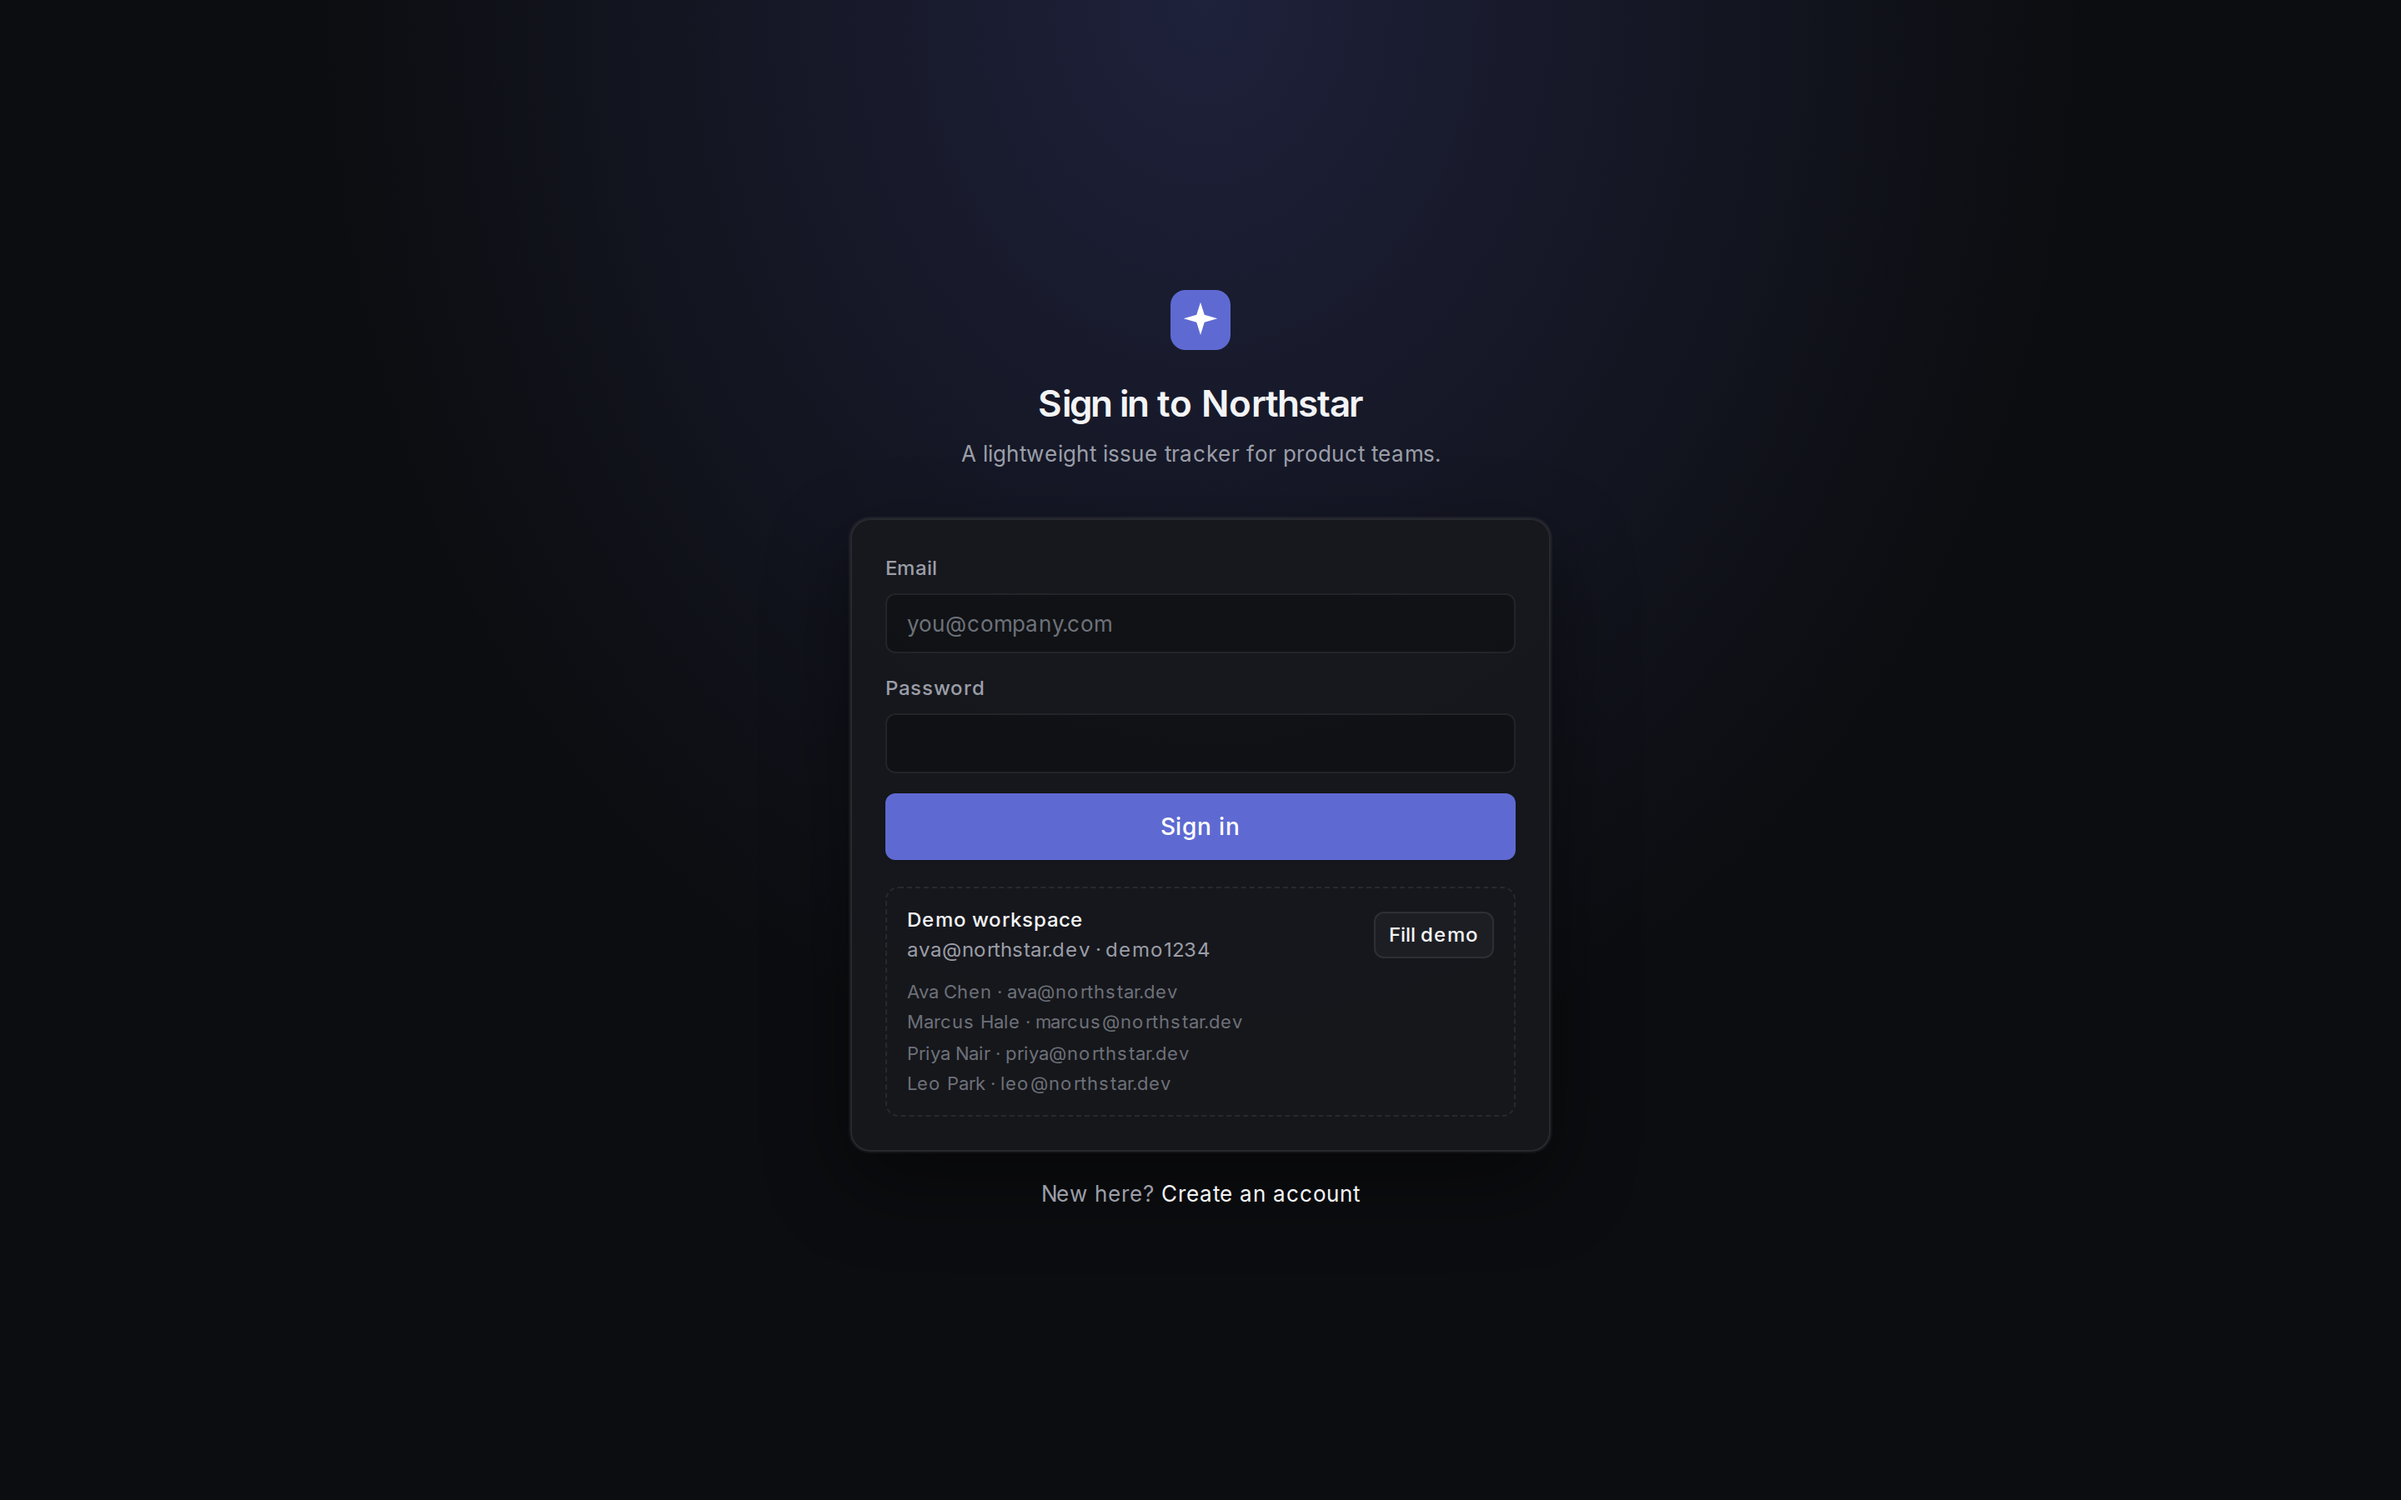
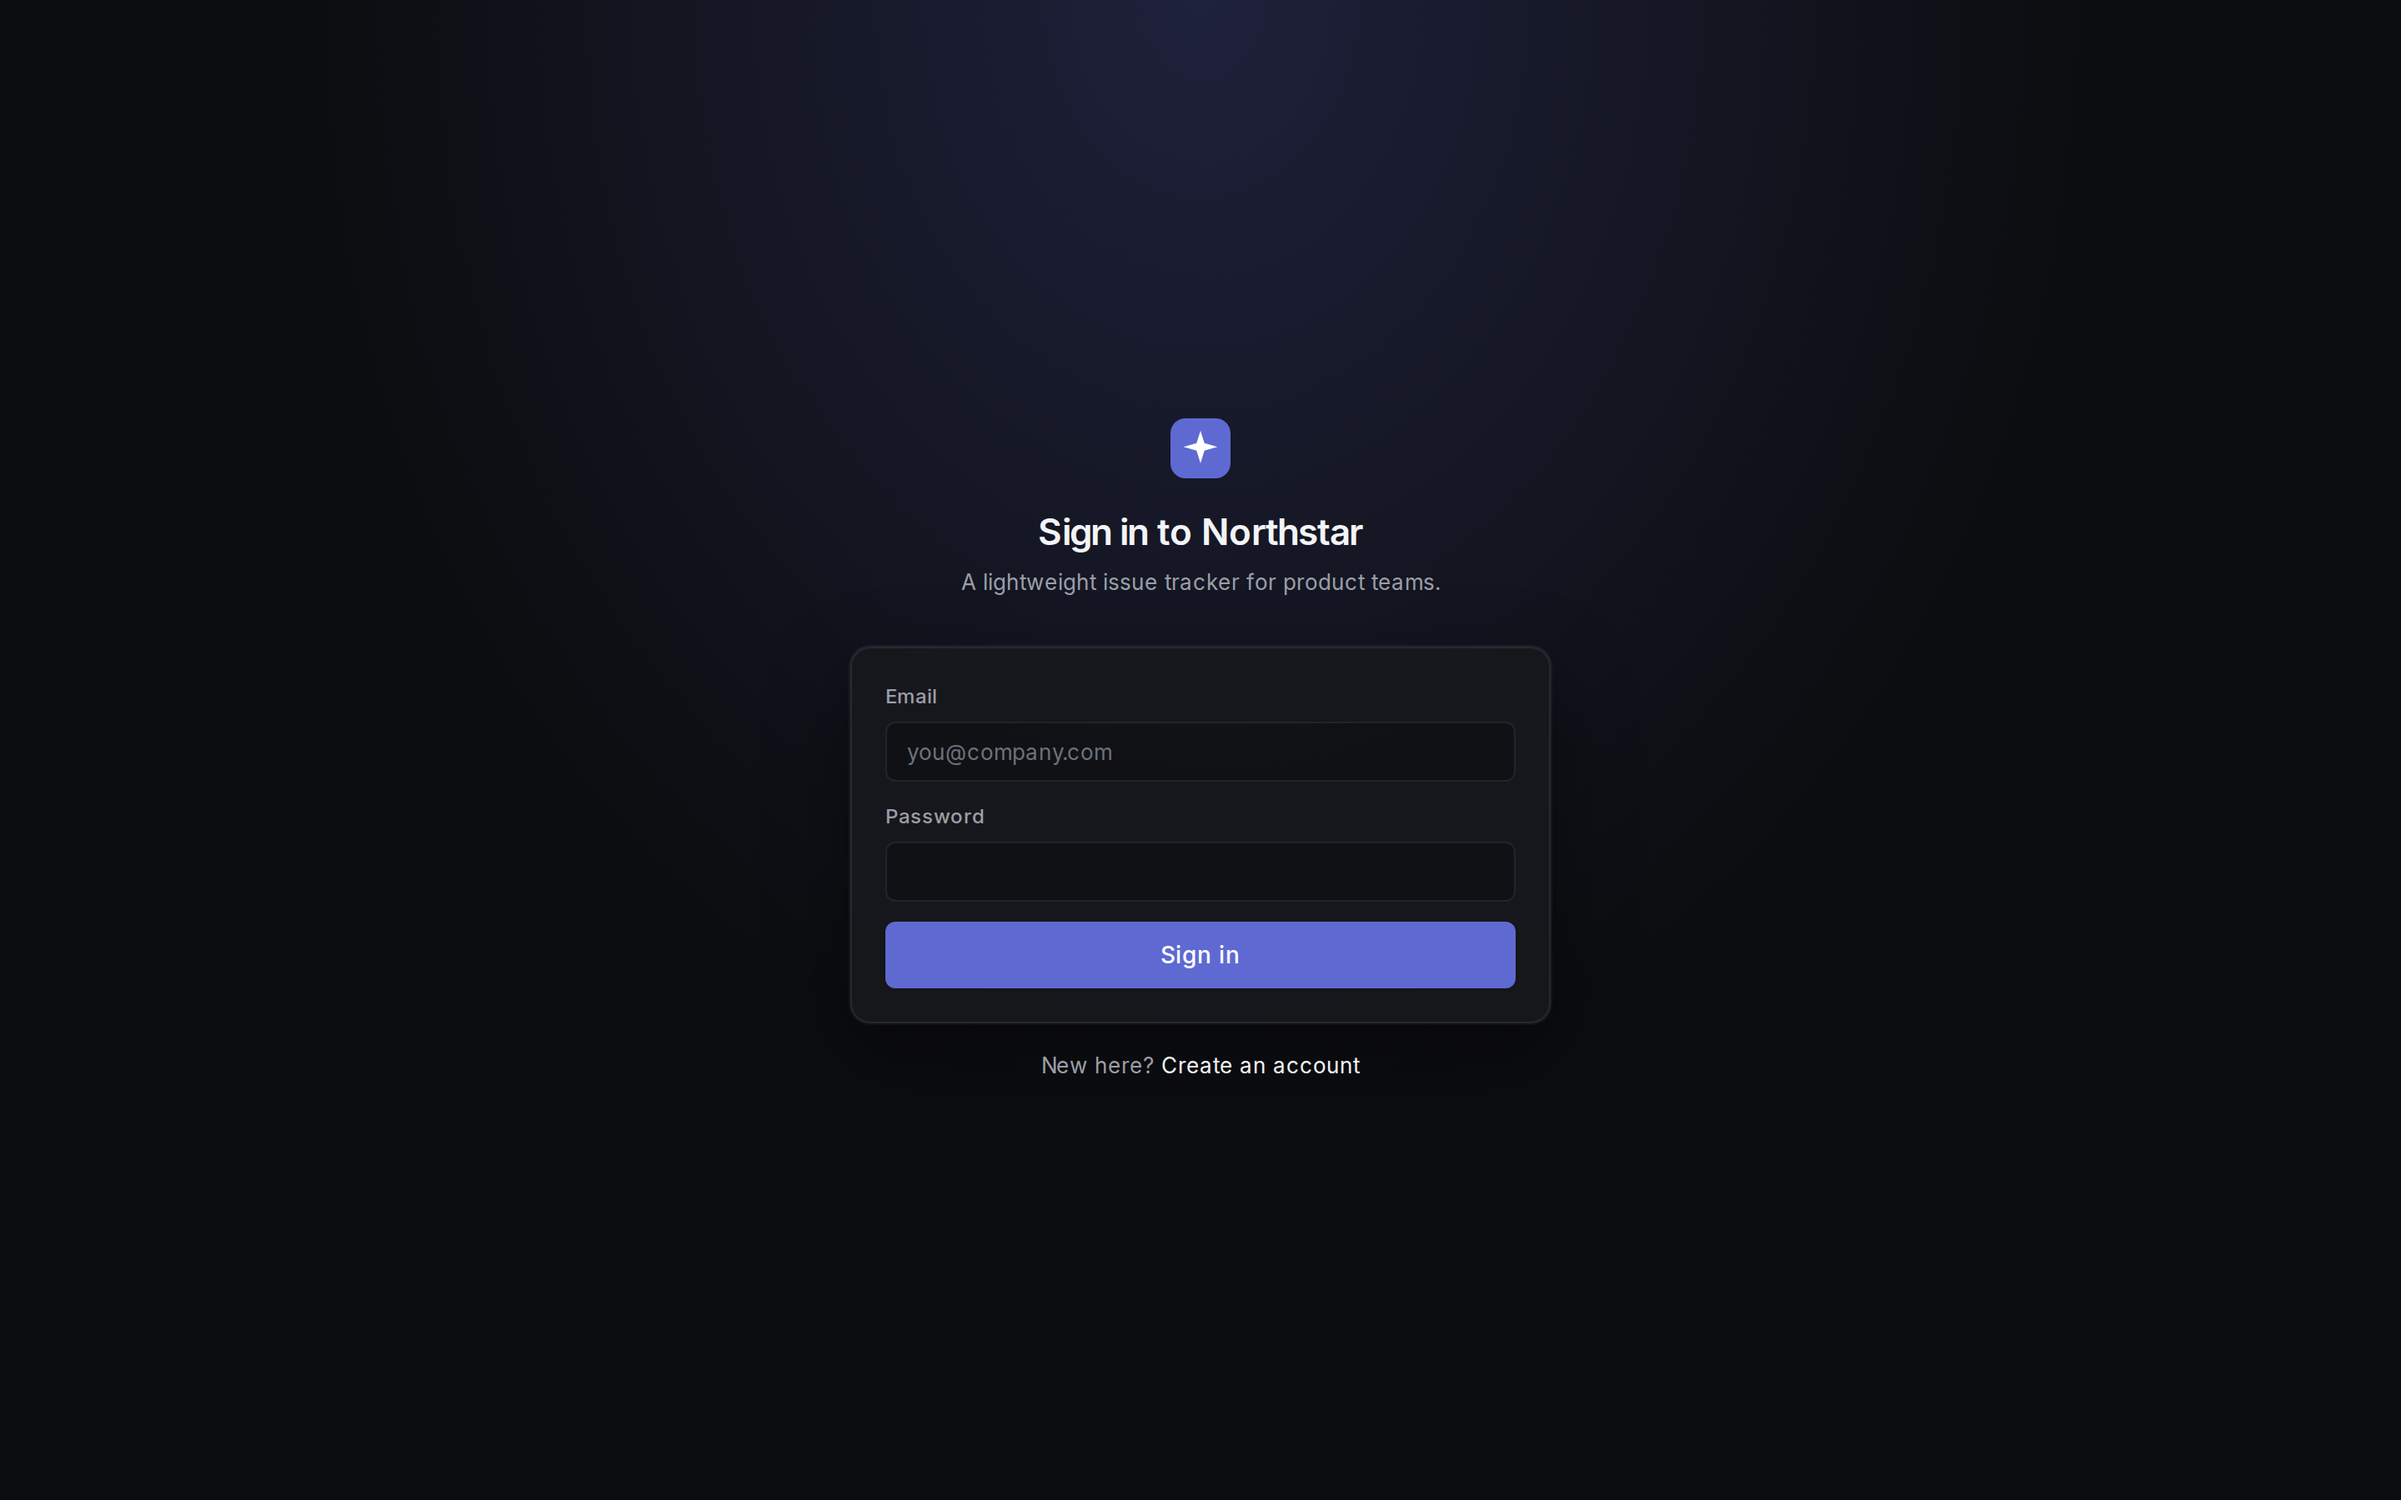
Recapture the production sign-in page and the password page.

diff --git a/scripts/capture-screenshots.ts b/scripts/capture-screenshots.ts
@@ -22,6 +22,16 @@ async function shot(page: Page, name: string) {
   await page.screenshot({ path: `${outDir}/${name}` });
 }
 
+/** The production sign-in page has no Fill demo block and does not receive the demo password. */
+async function assertProductionLogin(page: Page) {
+  await page.getByRole("heading", { name: "Sign in to Northstar" }).waitFor();
+  const text = await page.locator("body").innerText();
+  const html = await page.content();
+  if (text.includes("Fill demo") || text.includes("Demo workspace") || text.includes("demo1234") || html.includes("demo1234")) {
+    throw new Error("Refusing to write login.png: the page still shows the demo block. Use next start with NORTHSTAR_SHOW_DEMO unset.");
+  }
+}
+
 async function sha256(name: string) {
   const bytes = await readFile(path.join(outDir, name));
   return createHash("sha256").update(bytes).digest("hex");
@@ -113,6 +123,28 @@ async function captureConflict(browser: Browser) {
   }
 }
 
+async function captureLogin(page: Page) {
+  await page.goto(`${baseURL}/login`, { waitUntil: "networkidle" });
+  await assertProductionLogin(page);
+  await shot(page, "login.png");
+  console.log(`login.png ${await sha256("login.png")}`);
+}
+
+async function captureAccount(page: Page) {
+  await page.goto(`${baseURL}/account`, { waitUntil: "networkidle" });
+  await page.getByRole("heading", { name: "Change password" }).waitFor();
+  await page.getByLabel("Current password", { exact: true }).waitFor();
+  await page.getByLabel("New password", { exact: true }).waitFor();
+  await page.getByLabel("Confirm new password", { exact: true }).waitFor();
+  await page.getByRole("button", { name: "Change password" }).waitFor();
+  const text = await page.locator("body").innerText();
+  if (text.includes("demo1234") || text.includes("Fill demo")) {
+    throw new Error("The account page shows demo credentials");
+  }
+  await shot(page, "change-password.png");
+  console.log(`change-password.png ${await sha256("change-password.png")}`);
+}
+
 async function captureMobile(browser: Browser) {
   const context = await browser.newContext({
     viewport: { width: 375, height: 812 },
@@ -156,13 +188,25 @@ async function main() {
   }
   const page = await browser.newPage({ viewport: { width: 1440, height: 900 }, deviceScaleFactor: 2 });
 
-  await page.goto(`${baseURL}/login`, { waitUntil: "networkidle" });
-  await shot(page, "login.png");
+  if (process.argv.includes("--refresh")) {
+    await captureLogin(page);
+    await signIn(page);
+    await captureAccount(page);
+    await page.close();
+    await browser.close();
+    console.log(`Wrote screenshots to ${outDir}`);
+    return;
+  }
+
+  await captureLogin(page);
 
   await page.getByLabel("Email").fill(PRIMARY_DEMO.email);
   await page.getByLabel("Password").fill(DEMO_PASSWORD);
   await page.getByRole("button", { name: "Sign in" }).click();
   await page.waitForURL("**/p/ORB");
+  await page.getByRole("heading", { name: "Orbit" }).waitFor();
+  await captureAccount(page);
+  await page.goto(`${baseURL}/p/ORB`, { waitUntil: "networkidle" });
   await page.getByRole("heading", { name: "Orbit" }).waitFor();
   await shot(page, "board.png");
   await captureRelationColumn(page);

diff --git a/SCREENSHOTS_REFRESH.md b/SCREENSHOTS_REFRESH.md
@@ -1,0 +1,45 @@
+# Screenshot refresh
+
+`docs/screenshots/login.png` is the production sign-in page. Fill demo and the demo password are not on it. `docs/screenshots/change-password.png` is the signed-in `/account` page. No test was edited.
+
+## What was done
+
+The previous `login.png` was the development sign-in page. It showed the Demo workspace block, Fill demo, `ava@northstar.dev · demo1234`, and the four seeded accounts.
+
+`scripts/capture-screenshots.ts` now refuses to write `login.png` when that block, or the demo password, is on the page. It also writes `change-password.png` after signing in. `npm run screenshots -- --refresh` rewrites only those two files. A full `npm run screenshots` still writes the rest, and it takes the password page before it returns to the Orbit board.
+
+The README caption under the sign-in image says this is the production page. The Screenshots section includes the password page. The refresh note says the script expects `next start` with `NORTHSTAR_SHOW_DEMO` unset.
+
+## How it was verified
+
+2026-11-27, on `04be90a` plus this change. Node v22.23.4.
+
+1. `npm run db:setup` created `prisma/dev.db` and seeded Ava.
+2. `env -u NORTHSTAR_SHOW_DEMO npm run start -- --hostname 127.0.0.1 --port 3000`.
+3. `curl -s http://127.0.0.1:3000/login` returned the sign-in form. The HTML did not contain `Fill demo`, `Demo workspace`, or `demo1234`. It did contain `Sign in to Northstar` and `Create an account`.
+4. `npx tsx scripts/capture-screenshots.ts --refresh`, twice. The script checks the visible login text and the HTML for `demo1234` before it writes the file, and it checks the account page text for `demo1234` and `Fill demo`.
+5. `sha256sum` both files. The second run matched the first byte for byte.
+6. Both PNGs were read. `login.png` is the sign-in card only. `change-password.png` is Ava on `/account`, with the current, new, and confirm fields empty.
+7. `npx tsc --noEmit` passed. `npm run lint` passed. No test was edited, so the unit and end-to-end suites were not rerun locally. The other screenshots were not rewritten.
+
+## Evidence
+
+| File | sha256 |
+| --- | --- |
[3 lines of base64/hex data omitted]
+
+Both new files are 2880×1800, the 1440×900 viewport at a scale of 2. `login.png` went from 741035 bytes to 728906 bytes. `change-password.png` is 111271 bytes. Neither file contains the bytes `Fill demo`, `demo1234`, or `Demo workspace`.
+
+The new sign-in image shows the mark, “Sign in to Northstar”, the email and password fields, Sign in, and “New here? Create an account”. It does not show Fill demo, `demo1234`, or the seeded account list.
+
+The password image shows the shell, signed in as Ava Chen, the heading “Change password”, the note that other sessions are signed out and that the page does not email a reset link, and the three empty password fields.
+
+## Problems found
+
+The first `--refresh` run wrote `login.png` and then failed before `change-password.png`. `getByLabel("New password")` also matched “Confirm new password”, because Playwright’s label lookup is not exact unless asked. The account page was already rendered. The script now waits with `{ exact: true }`. No product code changed. The two runs after that fix matched the hashes above.
+
+## Actions run
+
+Recorded after the workflow for this commit finishes.

diff --git a/README.md b/README.md
@@ -4,6 +4,8 @@ Northstar is a lightweight issue tracker for product teams. It covers the everyd
 
 ![Sign in](docs/screenshots/login.png)
 
+This is the production sign-in page. Fill demo and the demo password are not on it.
+
 ## Features
 
 - Email and password accounts. Passwords are hashed with bcrypt. Sessions live in an httpOnly cookie. A signed-in person can change their password; other sessions for that account are signed out.
@@ -66,6 +68,10 @@ At a phone width the sidebar is closed until you open it, and the board scrolls 
 
 ![Mobile board](docs/screenshots/board-mobile.png)
 
+A signed-in person replaces their password at `/account`. Other sessions for that account are signed out. The page does not email a reset link:
+
+![Change password](docs/screenshots/change-password.png)
+
 ## Tech stack
 
 - Next.js 15 App Router, React 19, TypeScript
@@ -120,7 +126,7 @@ To refresh the screenshots in `docs/screenshots/` against a running app:
 npm run screenshots
 ```
 
-That script expects the app at http://127.0.0.1:3000.
+That script expects a production server at http://127.0.0.1:3000 (`next start`, with `NORTHSTAR_SHOW_DEMO` unset). It refuses to write `login.png` when Fill demo or the demo password is on the page. `npm run screenshots -- --refresh` rewrites only `login.png` and `change-password.png`.
 
 ## Tests
 
@@ -194,6 +200,7 @@ Do not deploy with `DATABASE_URL=file:./dev.db` and expect issues to stick. A pu
 Continued upgrade round:
 
 - [KEYBOARD_MOVE.md](KEYBOARD_MOVE.md) moves a focused board card to the neighboring column from the keyboard.
+- [SCREENSHOTS_REFRESH.md](SCREENSHOTS_REFRESH.md) recaptures the production sign-in page and adds the change-password page.
 
 Follow-up round:
 
